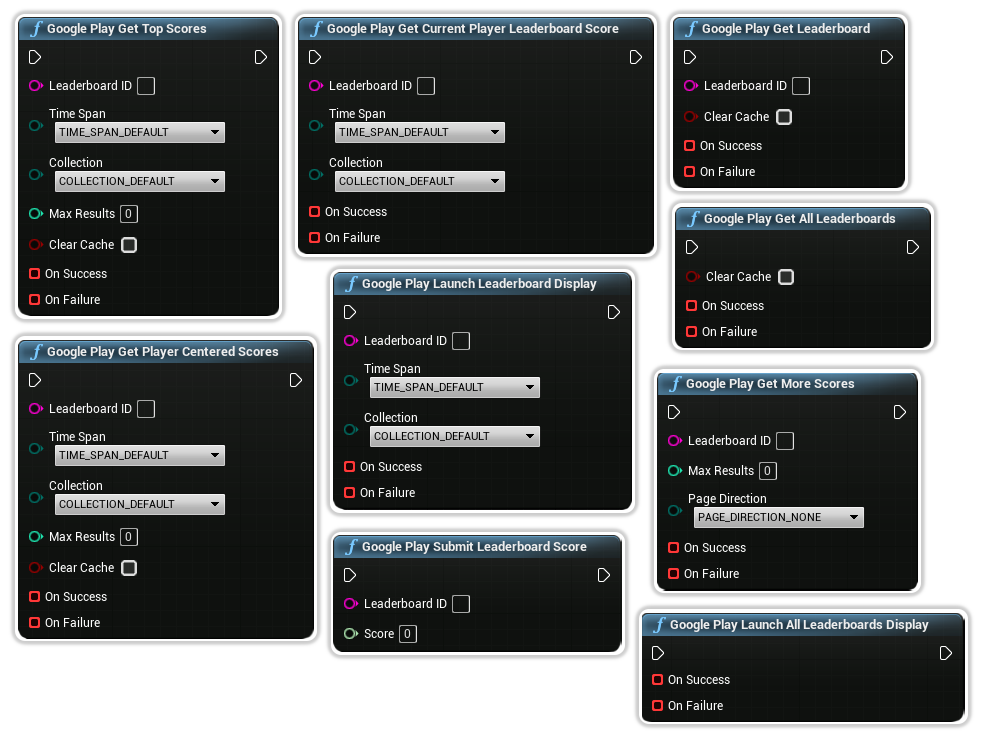
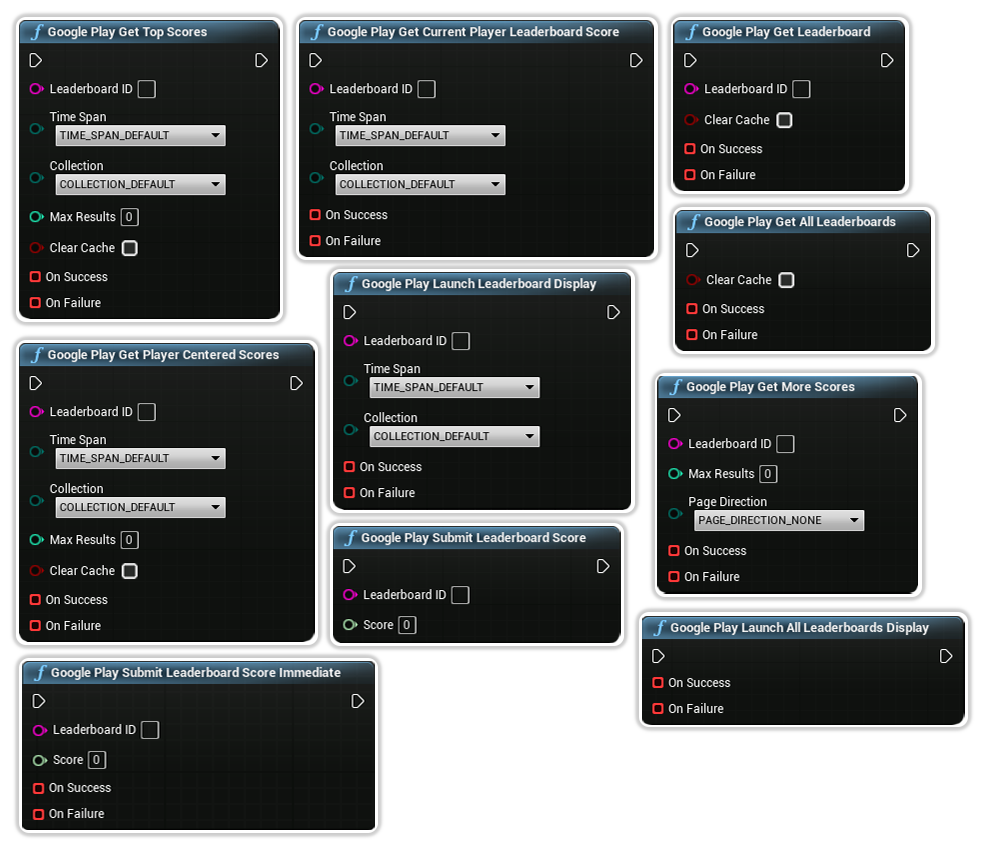
update for play base services V2 - submitScoreImmediate

diff --git a/plugins/google-play-services/base-services/leaderboards.html b/plugins/google-play-services/base-services/leaderboards.html
@@ -344,6 +344,81 @@
                 </div>
 
                 <div class="container" style="margin-left: 0px; padding-left: 0px; margin-bottom: 20px; margin-top: 20px; margin-right: 20px;">
+                    <h1 class="h3 text-white-shadow">Google Play Submit Leaderboard Score Immediate</h1>
+                </div>
+                <div class="container" style="margin-left: 0px; padding-left: 0px;">
+                    <div class="info" style="border-top-left-radius: 20px;">
+                        <p class="content" style="margin-bottom: 0rem;">
+                            A blueprint node which submits a score to a leaderboard for the currently signed-in player immediatly providing feedback whether it is successful or not.
+                            The score is ignored if it is worse (as defined by the leaderboard configuration) than a previously submitted score for the same player.
+                        </p>
+                    </div>
+                </div>
+                <div class="container" style="margin-left: 0px; padding-left: 0px; padding-top: 20px; padding-bottom: 20px">
+                    <div style="display: flex; justify-content: center; align-items: center;">
+                        <img src="../../../images/PlayBaseServices/BPs/PlayBaseServices_BP_PlaySubmitLeaderboardScoreImmediate.png">
+                    </div>
+                </div>
+                <div style="padding-top: 20px">
+                    <div class="container" style="margin-left: 0px; padding-left: 0px; position: relative;">
+                        <span class="badge badge-primary">1</span>
+                        <div class="info">
+                            <p class="content">
+                                <b>Leaderboard ID</b>
+                            </p>
+                            <p class="content" style="margin-bottom: 0rem;">
+                                The Leaderboard ID from the Google Play Console to submit the score to.
+                            </p>
+                        </div>
+                    </div>
+                </div>
+                <div style="padding-top: 20px">
+                    <div class="container" style="margin-left: 0px; padding-left: 0px; position: relative;">
+                        <span class="badge badge-primary">2</span>
+                        <div class="info">
+                            <p class="content">
+                                <b>Score</b>
+                            </p>
+                            <p class="content" style="margin-bottom: 0rem;">
+                                An integer representing the raw score value.
+                            </p>
+                        </div>
+                    </div>
+                </div>
+                <div style="padding-top: 20px">
+                    <div class="container" style="margin-left: 0px; padding-left: 0px; position: relative;">
+                        <span class="badge badge-primary">3</span>
+                        <div class="info">
+                            <p class="content">
+                                <b>OnSuccess</b>
+                            </p>
+                            <p class="content">
+                                A delegate which produces a <a href="google_play_leaderboard.html">FGooglePlayLeaderboardScoreSubmissionData</a> object representing the submission result.
+                            </p>
+                            <p class="content" style="margin-bottom: 0rem;">
+                                You can simply click and drag off this pin to create a custom event.
+                            </p>
+                        </div>
+                    </div>
+                </div>
+                <div style="padding-top: 20px">
+                    <div class="container" style="margin-left: 0px; padding-left: 0px; position: relative;">
+                        <span class="badge badge-primary">4</span>
+                        <div class="info" style="border-bottom-left-radius: 20px;">
+                            <p class="content">
+                                <b>OnFailure</b>
+                            </p>
+                            <p class="content">
+                                A delegate producing a message describing the failure.
+                            </p>
+                            <p class="content" style="margin-bottom: 0rem;">
+                                You can simply click and drag off this pin to create a custom event.
+                            </p>
+                        </div>
+                    </div>
+                </div>
+
+                <div class="container" style="margin-left: 0px; padding-left: 0px; margin-bottom: 20px; margin-top: 20px; margin-right: 20px;">
                     <h1 class="h3 text-white-shadow">Google Play Get All Leaderboards</h1>
                 </div>
                 <div class="container" style="margin-left: 0px; padding-left: 0px;">

diff --git a/plugins/google-play-services/base-services/google_play_leaderboard.html b/plugins/google-play-services/base-services/google_play_leaderboard.html
@@ -364,6 +364,84 @@
                         </tbody>
                     </table>
                 </div>
+
+                <div class="container" style="margin-left: 0px; padding-left: 0px; margin-bottom: 20px; margin-top: 20px; margin-right: 20px;">
+                    <h1 class="h3 text-white-shadow">FGooglePlayLeaderboardScoreSubmissionData</h1>
+                </div>
+                <div class="container" style="margin-left: 0px; padding-top: 20px; padding-left: 0px; overflow-x: auto;">
+                    <table class="table table-striped table-bordered table-documentation"
+                        style="margin-bottom: 0; box-shadow: 1px 1px 3px #ccc;">
+                        <thead class="thead-dark">
+                            <tr>
+                                <th>Field</th>
+                                <th>Type</th>
+                                <th>Description</th>
+                            </tr>
+                        </thead>
+                        <tbody>
+                            <tr>
+                                <td>LeaderboardID</td>
+                                <td>FString</td>
+                                <td>
+                                    The ID of the leaderboard the score was submitted to.
+                                </td>
+                            </tr>
+                            <tr>
+                                <td>PlayerID</td>
+                                <td>FString</td>
+                                <td>
+                                    The ID of the player the score was submitted for.
+                                </td>
+                            </tr>
+                            <tr>
+                                <td>ScoreResults</td>
+                                <td>TMap&lt;<a href="enumerations.html">EGooglePlayLeaderboardTimeSpan</a>, FGooglePlayLeaderboardScoreSubmissionResult&gt;</td>
+                                <td style="min-width: 400px">
+                                    A Map of Score Submission Result objects by TimeSpan.
+                                </td>
+                            </tr>
+                        </tbody>
+                    </table>
+                </div>
+
+                <div class="container" style="margin-left: 0px; padding-left: 0px; margin-bottom: 20px; margin-top: 20px; margin-right: 20px;">
+                    <h1 class="h3 text-white-shadow">FGooglePlayLeaderboardScoreSubmissionResult</h1>
+                </div>
+                <div class="container" style="margin-left: 0px; padding-top: 20px; padding-left: 0px; overflow-x: auto;">
+                    <table class="table table-striped table-bordered table-documentation"
+                        style="margin-bottom: 0; box-shadow: 1px 1px 3px #ccc;">
+                        <thead class="thead-dark">
+                            <tr>
+                                <th>Field</th>
+                                <th>Type</th>
+                                <th>Description</th>
+                            </tr>
+                        </thead>
+                        <tbody>
+                            <tr>
+                                <td>FormattedScore</td>
+                                <td>FString</td>
+                                <td>
+                                    A formatted string to display for this scores rank. This handles appropriate localization and formatting.
+                                </td>
+                            </tr>
+                            <tr>
+                                <td>bNewBest</td>
+                                <td>bool</td>
+                                <td>
+                                    A boolean value indicating if this was a new high score or not.
+                                </td>
+                            </tr>
+                            <tr>
+                                <td>RawScore</td>
+                                <td>int64</td>
+                                <td style="min-width: 300px">
+                                    The raw score value.
+                                </td>
+                            </tr>
+                        </tbody>
+                    </table>
+                </div>
                 
                 <div style="margin-bottom: 300px">
                 </div>

diff --git a/script.js b/script.js
@@ -74,7 +74,35 @@ if (mobileButton) {
 const news = document.getElementById('news');
 if (news) {
   news.innerHTML =`
-<div class="news-card expanded">
+  <div class="news-card expanded">
+    <div class="news-container">
+      <div class="news-group-item">
+          <div class="row">
+              <div class="col-auto" style="padding-right: 0">
+                  <img class="news-badge" src="../../../images/PlayBaseServices/GooglePlay_BaseServices_Plugin_Logo.png">
+              </div>
+              <div class="col-9" style="padding-left: 10px">
+                  <div class="news-title">Release Notes</div>
+                  <div class="news-sub-title">2024-03-18</div>
+              </div>
+          </div>
+      </div>
+      <div class="news-info">
+          <div class="news-info-title">
+            Play Base Services V2 Release Notes
+          </div>
+          <div class="news-info-details">
+              <ul>
+                  <li>New BP Node to Submit Score Immediatly</li>
+                  <li>New OnSuccess Delegate</li>
+                  <li>New OnFailure Delegate</li>
+              </ul>
+          </div>
+          <a class="btn-learn-more" href="../../../plugins/google-play-services/base-services/overview.html?utm_source=News">Learn more</a>
+      </div>
+    </div>
+</div>
+  <div class="news-card">
   <div class="news-container">
       <div class="news-group-item">
           <div class="row">
@@ -224,35 +252,6 @@ if (news) {
               </ul>
           </div>
           <a class="btn-learn-more" href="../../../plugins/google-play-services/saved-games/overview.html?utm_source=News">Learn more</a>
-      </div>
-  </div>
-</div>
-<div class="news-card">
-  <div class="news-container">
-      <div class="news-group-item">
-          <div class="row">
-              <div class="col-auto" style="padding-right: 0">
-                  <img class="news-badge" src="../../../images/Events/GooglePlay_Events_Plugin_Logo.png">
-              </div>
-              <div class="col" style="padding-left: 10px">
-                  <div class="news-title">Release Notes</div>
-                  <div class="news-sub-title">2024-02-02</div>
-              </div>
-          </div>
-      </div>
-      
-      <div class="news-info">
-          <div class="news-info-title">
-              Play Services: Events Release Notes
-          </div>
-          <div class="news-info-details">
-              <ul>
-                <li>Detect Play Base Services V2 Plugin</li>
-                <li>Update Libraries Accordingly</li>
-                <li>Improved Console Logging</li>
-              </ul>
-          </div>
-          <a class="btn-learn-more" href="../../../plugins/google-play-services/events/overview.html?utm_source=News">Learn more</a>
       </div>
   </div>
 </div>

diff --git a/plugins/release/notes/play_base_services.html b/plugins/release/notes/play_base_services.html
@@ -120,6 +120,38 @@
                                         <img class="news-badge" src="../../../images/PlayBaseServices/GooglePlay_BaseServices_Plugin_Logo.png">
                                     </div>
                                     <div class="col-9" style="padding-left: 10px">
+                                        <div class="news-title">Feature Release</div>
+                                        <div class="news-sub-title">2024-03-18</div>
+                                    </div>
+                                    <div class="col text-right" style="padding-left: 10px">
+                                        <div class="news-title">v1.1.0</div>
+                                    </div>
+                                </div>
+                            </div>
+                            <div class="news-info">
+                                <div class="row">
+                                    <div class="col-auto" style="display:flex; align-items: center; margin: 0">
+                                        <div class="news-info-details" style="font-weight: 500">
+                                            <ul>
+                                                <li>New blueprint node to <a href="../../google-play-services/base-services/leaderboards.html">Submit Leaderboard Score Immediatly</a></li>
+                                                <li>Get Feedback on Leaderboard Score Submission</li>
+                                                <li>Alternative has two additional parameters; OnSuccess and OnFailure delegates</li>
+                                            </ul>
+                                        </div>
+                                    </div>
+                                </div>
+                            </div>
+                        </div>
+                    </div>
+                    <div style="padding: 10px"></div>
+                    <div class="news-card expanded">
+                        <div class="news-container">
+                            <div class="news-group-item">
+                                <div class="row">
+                                    <div class="col-auto" style="padding-right: 0">
+                                        <img class="news-badge" src="../../../images/PlayBaseServices/GooglePlay_BaseServices_Plugin_Logo.png">
+                                    </div>
+                                    <div class="col-9" style="padding-left: 10px">
                                         <div class="news-title">Initial Release</div>
                                         <div class="news-sub-title">2024-02-02</div>
                                     </div>
